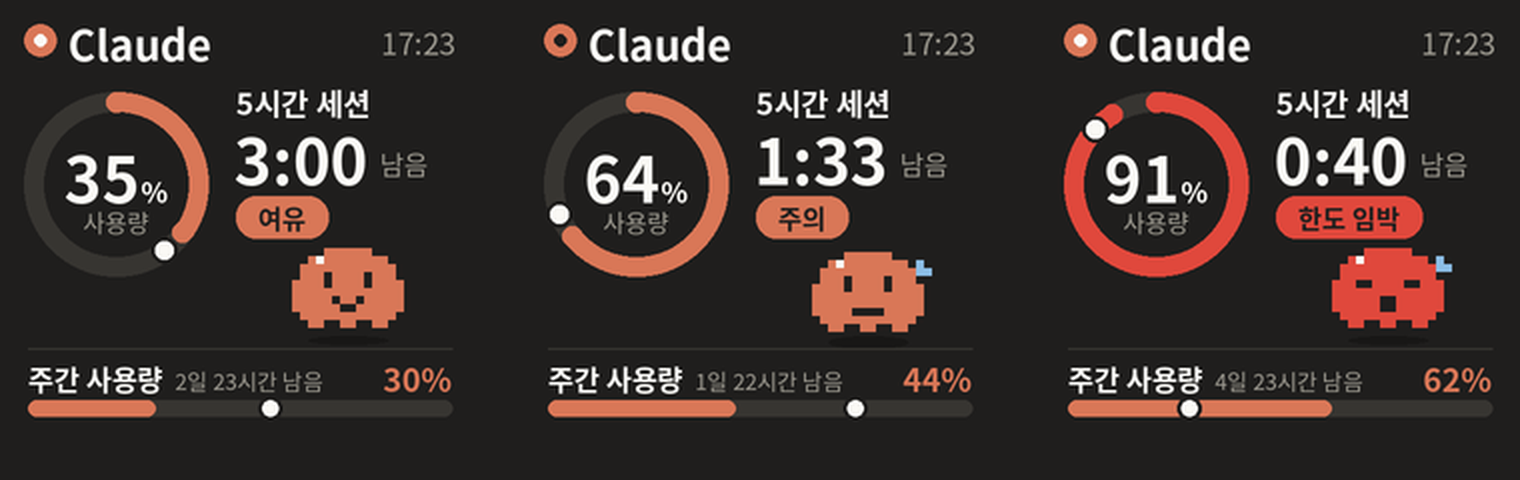
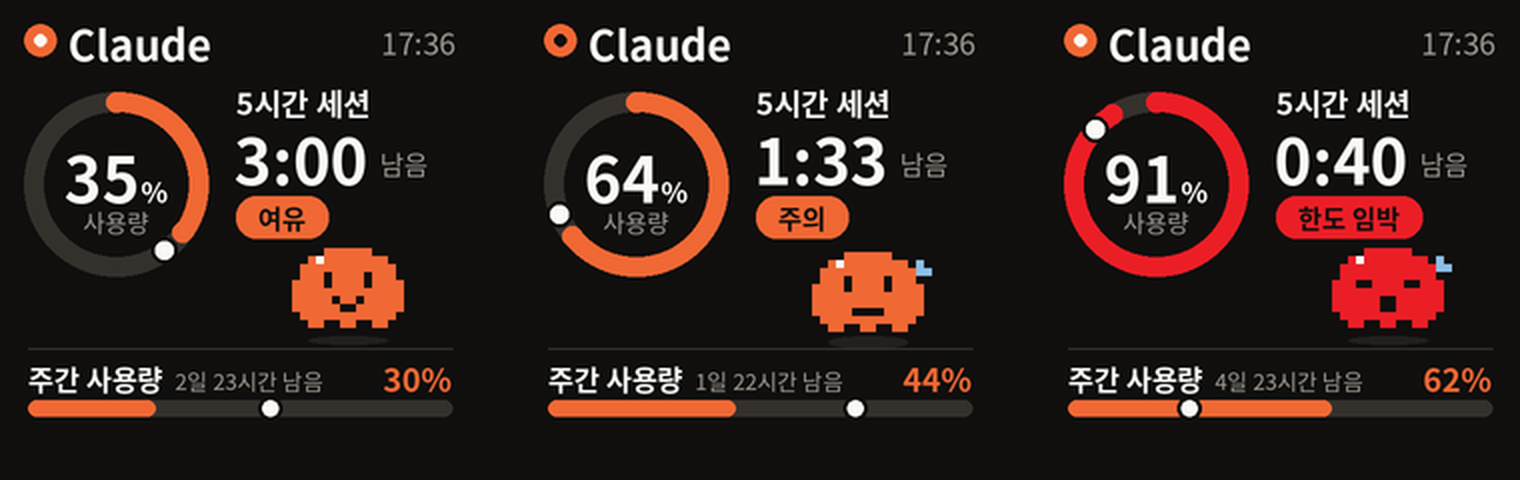
Punchier colors for the device LCD
- Claude orange boosted in saturation so it no longer looks washed out
  on the SmallTV panel; used for both "여유" and "주의"
- Clear red only for "한도 임박" (85%+)
- Near-black background for stronger contrast

Claude-Session: https://claude.ai/code/session_01DY42v6an77UQnfTixNxANu

diff --git a/claude_meter.py b/claude_meter.py
@@ -49,14 +49,14 @@ DEFAULT_CONFIG = {
 W = H = 240
 S = 2                            # 2배로 그린 뒤 축소
 # Claude 아이덴티티 팔레트: 따뜻한 다크 배경 + 아이보리 글자 + 클레이 오렌지 포인트
-BG = (31, 30, 29)                # #1F1E1D 다크
+BG = (16, 15, 14)                # 거의 검정(장비 LCD에서 대비 확보)
 FG = (250, 249, 245)             # #FAF9F5 아이보리
 DIM = (156, 153, 143)            # 웜 그레이
-TRACK = (55, 53, 49)             # 게이지 바탕
-ACCENT = (217, 119, 87)          # #D97757 Claude 클레이 오렌지
+TRACK = (52, 49, 45)             # 게이지 바탕
+ACCENT = (240, 104, 52)          # Claude 오렌지(#D97757)를 LCD용으로 채도↑ — 옅게 보이는 것 보정
 GREEN = ACCENT                   # 여유 → Claude 오렌지
 AMBER = ACCENT                   # 주의 → Claude 오렌지(배지 문구로 구분)
-RED = (224, 72, 60)              # 한도 임박(85%↑)만 경고 레드
+RED = (235, 30, 38)              # 한도 임박(85%↑) — 오렌지와 확실히 구분되는 빨강
 FIVE_H = 5 * 3600
 
 
@@ -641,7 +641,7 @@ def _slime(d, x, y, c, mood, beat):
         cell(13, 1, SWEAT); cell(13, 2, SWEAT); cell(14, 2, SWEAT)
     # 그림자
     d.ellipse((x + 2 * c, y + 10 * c + c // 2 + (c // 2 if beat else 0),
-               x + 12 * c, y + 11 * c + c), fill=(24, 23, 22))
+               x + 12 * c, y + 11 * c + c), fill=(34, 32, 30))
 
 
 def render_mascot(usage, source, now=None):
